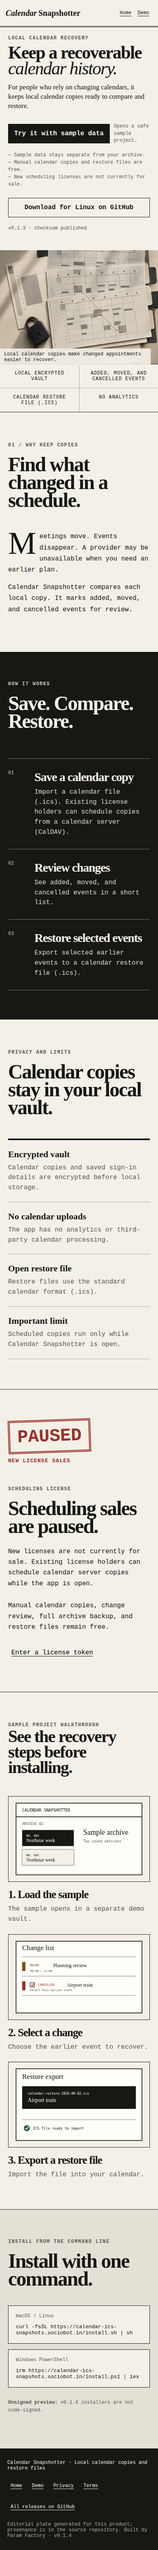
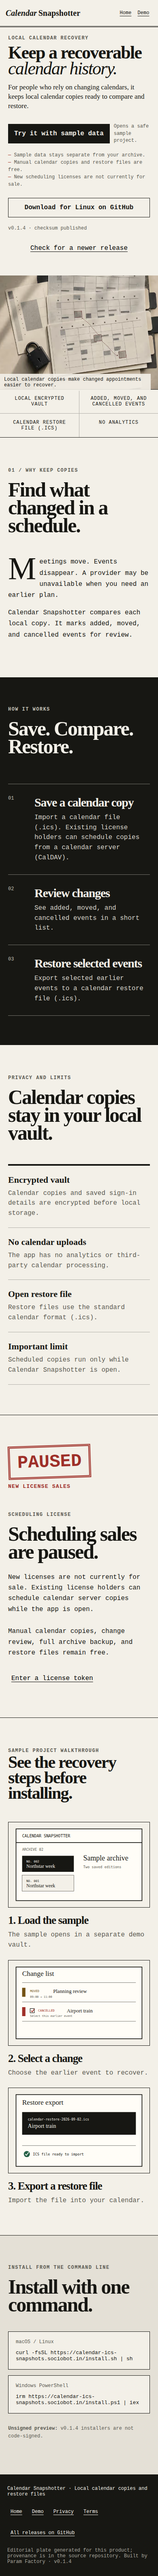
docs: record live polish verification

diff --git a/.factory/handoff.md b/.factory/handoff.md
@@ -1,33 +1,69 @@
-# Handoff — first-read product QA review 1
+# Handoff — Calendar Snapshotter polish round 1
 
-## Result: FAIL
+## Result
 
-Reviewed commit `79b289782a1922af7b6972c136e9640fbc8962b4` against the live product on 2026-09-01 UTC. No product code or infrastructure was changed. The complete report is `.factory/review-1.md`.
+PASS. All 16 findings in `.factory/review-1.md` are resolved and mapped in `.factory/polish-1.md`. The repaired static site is deployed at <https://calendar-ics-snapshots.sociobot.in/>. Product code deployed from repair commit `4394f5743778e1a4ca2bd28844172598e688a427`.
 
-## Blocking findings
+## What changed
 
-1. At 390 × 844, the audience sentence and **Try it with sample data** action are below the first viewport.
-2. **Reset demo** fails after sample data changes and leaves the added edition in place.
-3. **Buy the US$29 license** returns HTTP 404.
-4. Several README and installer promises have no claims entry or tagged observable check.
+- Put the audience, one-click sample action, outcome, and three facts in the first 390 × 844 viewport.
+- Made `/?demo=1` and `/demo/` enter the isolated `demo:calendar-snapshotter` vault directly.
+- Made **Reset demo** close database handles, delete only demo storage, and reseed the two original calendar copies.
+- Removed the dead checkout and clearly paused new scheduling-license sales. Existing licenses can still be entered and verified.
+- Added encrypted full-archive export/import with passphrase verification and connection-setting coverage.
+- Standardized visitor language on **calendar copy**, replaced ambiguous labels, and identified external destinations.
+- Added consistent route chrome, route titles, one task h1, focus/live announcements, legal links, and a real styled 404.
+- Registered 30 public claims in `.factory/claims.json`, each with exactly one tagged observable test.
+- Bundled the current v0.1.4 release metadata for a clean cold load. An explicit refresh can query GitHub without making first load depend on its rate limit.
 
-The report also records inconsistent route chrome and focus, a product-name demo h1, inconsistent terminology, unclear or technical copy, one 23-word README sentence, unidentified external links, and the absence of full encrypted archive export/import.
+## Clean-clone verification
 
-## Verification
+Source clone: commit `4394f5743778e1a4ca2bd28844172598e688a427` in a new `/tmp/calendar-polish-clean.*` directory with `npm ci`.
 
-All 20 exact commands in `.factory/claims.json` passed from a fresh clone after installing the Linux Tauri prerequisites named by the release workflow. Additional results:
+- Every one of the 30 exact commands in `.factory/claims.json`: PASS. The native claim passed 3 Rust transport checks. A disposable duplicate Cargo target first exhausted the 20 GB worker disk; after deleting only old temporary build caches, the exact native command passed.
+- `npm test`: PASS — 10 tests.
+- `npm run lint`: PASS.
+- `npm run check`: PASS — TypeScript and Rust.
+- `npm run build`: PASS — `dist/app` and `dist/site` produced.
+- `npm run test:e2e`: PASS — 24 tests.
+- `npm run test:e2e:static`: PASS — 6 tests.
+- Playwright Axe on live `/`, `/demo/`, `/privacy/`, and `/terms/`: 0 serious or critical findings on every route.
+- `scripts/verify-url.sh` on live `/` and `/demo/`: PASS.
 
-```text
-npm test                 PASS (9)
-npm run lint             PASS
-npm run check            PASS
-npm run build            PASS (dist/app and dist/site)
-npm run test:e2e         PASS (18)
-npm run test:e2e:static  PASS (3)
+Build budgets: app JS 10.41 kB gzip; site JS 1.69 kB gzip; demo JS 10.12 kB gzip; site CSS 2.84 kB gzip; demo CSS 3.46 kB gzip.
+
+Lighthouse mobile against the deployed root: Performance 100, Accessibility 100, Best Practices 100, SEO 100; LCP 1,456 ms, CLS 0, TBT 24 ms.
+
+## Live verification after deployment
+
[1 lines of base64/hex data omitted]
+- `/`, `/demo/`, `/privacy/`, and `/terms/` return 200 with route-specific titles, one h1, shared Home / Demo / Privacy / Terms navigation, and footer legal links.
+- `/definitely-missing-page` returns HTTP 404 with “This page is not in the archive.”
+- Cold 390 × 844 root: sample action bottom 353 px; last fact bottom 463 px; no horizontal overflow, console errors, or external requests.
+- Live demo reset: imported copy count 3 → reset count 2; real-vault sentinel remained `real-data`.
+- Live archive import: wrong passphrase left all 3 current copies unchanged; the correct passphrase restored the exported 2-copy archive.
+- Forward and Back navigation both focused the destination h1.
[1 lines of base64/hex data omitted]
+- Evidence images: `.factory/evidence-polish-1-live-mobile-home.png`, `.factory/evidence-polish-1-live-demo-reset.png`, and `.factory/evidence-polish-1-live-404.png`.
+
+## Run locally
+
+```sh
+npm ci
+npm test
+npm run lint
+npm run check
+npm run build
+npm run test:e2e
+npm run test:e2e:static
 ```
 
-Live Playwright checks covered 390 px and desktop first screens, demo entry, reset, separate real/demo IndexedDB sentinels, request logs, metadata, links, 404 behavior, navigation focus, console output, Axe, and touch targets. The live root and demo HTML match the fresh production build byte-for-byte.
+Use `npm run dev` for the browser version of the desktop UI, `npm run tauri dev` for the native shell, and `npm run dev:site` for the landing site.
 
-## Next step
+## Known gaps
 
-Repair F-1-1 through F-1-16 in `.factory/review-1.md`, add the missing claim checks, and rerun the full checklist from a clean clone and fresh browser contexts.
+None in the reviewed scope.
+
+## Needs operator action
+
+The v0.1.4 preview installers are intentionally unsigned. Production signing requires owner-provided `APPLE_CERTIFICATE` and `WINDOWS_CERT_PFX` GitHub Actions secrets; no certificates were available or added during this work order.
